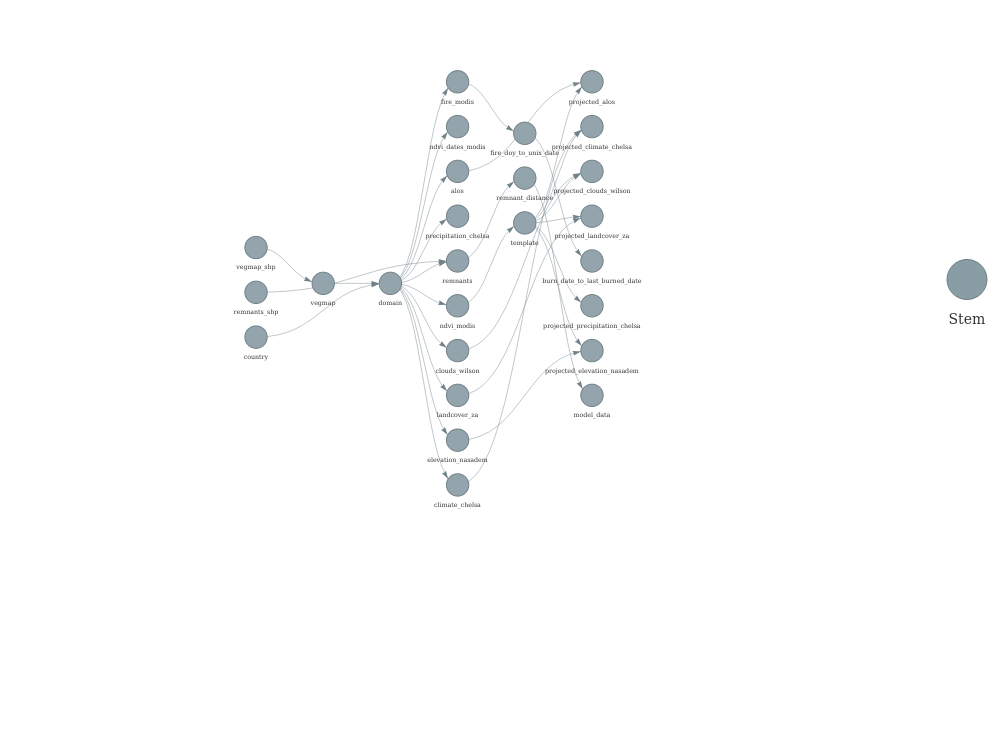
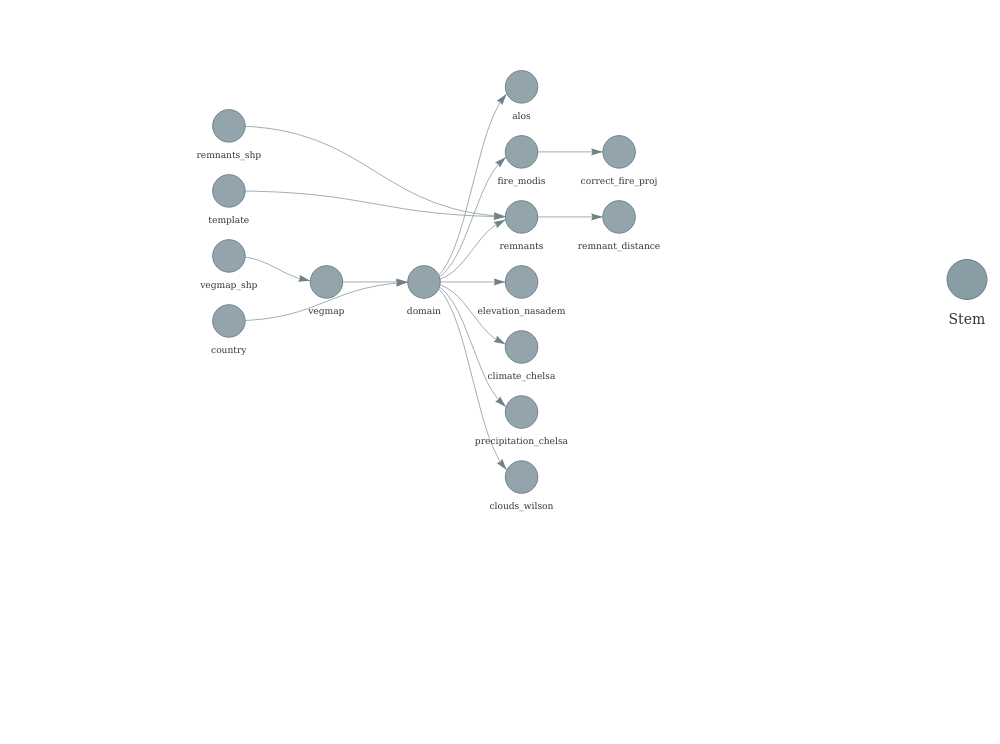
updated stuff so i can pull

Changed region(s): [[0.186, 0.0927, 0.651, 0.6801]]

diff --git a/README.md b/README.md
@@ -21,12 +21,31 @@ The most important files are:
 └── Readme.Rmd (this file)
 ```
 
-Files generated by the workflow are stored in the targets-runs branch.  The final output of the workflow is a set of parquet files stored as Github releases with the tag "current".
-
+Files generated by the workflow are stored in the targets-runs branch.
+The final output of the workflow is a set of parquet files stored as
+Github releases with the tag “current”.
 
 # Workflow structure
 
 ![](README_files/figure-gfm/unnamed-chunk-3-1.png)<!-- -->
+
+# Workflow Notes
+
+## Runtime and frequency
+
+Github places some constrains on actions, including memory limits and
+run time limits. To prevent this workflow from taking too long to run
+(and thereby losing all progress), there are a few key parameters that
+can be changed. In the \_targets.R file, the argument “max_layers”
+controls the maximum number of layers that rgee will attempt to download
+in one action run. When initially setting up the repo, it may be
+necessary to lower this value and increase the frequency that the
+targets workflow is run (by adjusting the cron parameters in
+targets.yaml).
+
+# Data notes
+
+    * MODIS NDVI values have been transformed to save space.  To restore them to the original values (between -1 and 1), use (x/100)-1
 
 # Extras
 
